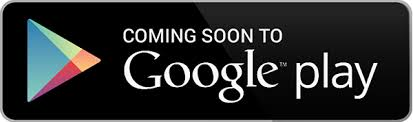
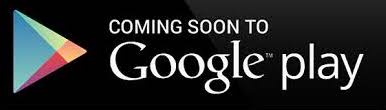
Footer edit

Changed region(s): [[0.0, 0.0, 1.0, 1.0]]

diff --git a/index.html b/index.html
@@ -10,6 +10,7 @@
     <link href="assets/css/bootstrap.css" rel="stylesheet" />
     <!-- FONT AWESOME CSS -->
 <link href="assets/css/font-awesome.min.css" rel="stylesheet" />
+<link rel="stylesheet" href="https://cdnjs.cloudflare.com/ajax/libs/font-awesome/4.7.0/css/font-awesome.min.css">
      <!-- FLEXSLIDER CSS -->
 <link href="assets/css/flexslider.css" rel="stylesheet" />
     <!-- CUSTOM STYLE CSS -->
@@ -48,55 +49,41 @@
            <div class="overlay">
  <div class="container">
            <div class="row text-center " >
+           	<br>
+           	<div class="set-flexi">
+           	<h3>Delivering Quality Education</h3>
+                           <h1>THE UNIQUE METHOD</h1></div>
            
-               <div class="col-lg-12  col-md-12 col-sm-12">
+               <!-- <div class="col-lg-12  col-md-12 col-sm-12">
 				<img src="img/hero.svg" alt="animat">
 				<img src="img/phone.gif" alt="phone" class="hero_image">
 				<div class="shadow"></div>
 				<div class="dots"><img src="img/phone.png" alt="dots">
-               
+ -->
+<!--                
                 <div class="flexslider set-flexi" id="main-section" >
                     <ul class="slides move-me">
-                        <!-- Slider 01 -->
+
                         <li>
                               <h3>Delivering Quality Education</h3>
                            <h1>THE UNIQUE METHOD</h1>
-                            <a  href="#features-sec" class="btn btn-info btn-lg" >
-                                GET AWESOME 
-                            </a>
-                             <a  href="#features-sec" class="btn btn-success btn-lg" >
-                                FEATURE LIST
-                            </a>
+                            
                         </li>
-                        <!-- End Slider 01 -->
-                        
-                        <!-- Slider 02 -->
+
                         <li>
                             <h3>Delivering Quality Education</h3>
                            <h1>UNMATCHED APPROACH</h1>
-                             <a  href="#features-sec" class="btn btn-primary btn-lg" >
-                               GET AWESOME 
-                            </a>
-                             <a  href="#features-sec" class="btn btn-danger btn-lg" >
-                                FEATURE LIST
-                            </a>
+                             
                         </li>
-                        <!-- End Slider 02 -->
-                        
-                        <!-- Slider 03 -->
+
                         <li>
                             <h3>Delivering Quality Education</h3>
                            <h1>AWESOME FACULTY PANEL</h1>
-                             <a  href="#features-sec" class="btn btn-default btn-lg" >
-                                GET AWESOME 
-                            </a>
-                             <a  href="#features-sec" class="btn btn-info btn-lg" >
-                                FEATURE LIST
-                            </a>
+                            
                         </li>
-                        <!-- End Slider 03 -->
+
                     </ul>
-                </div>
+                </div> -->
 
 				
 			</div>
@@ -117,7 +104,7 @@
            
                <div class="col-lg-12  col-md-12 col-sm-12">
                
-        <h2 data-scroll-reveal="enter from the bottom after 0.1s" ><i class="fa fa-circle-o-notch"></i> WELCOME TO THE EDU-CENTER <i class="fa fa-circle-o-notch"></i> </h2>
+        <!-- <h2 data-scroll-reveal="enter from the bottom after 0.1s" ><i class="fa fa-circle-o-notch"></i> WELCOME TO THE EDU-CENTER <i class="fa fa-circle-o-notch"></i> </h2> -->
                    </div>
                </div>
              </div>
@@ -274,56 +261,58 @@
     <footer class="site-footer">
       <div class="container">
         <div class="row">
-          <div class="col-sm-12 col-md-6">
+          <div class="col-sm-12 col-md-5">
             <h6>About</h6>
             <p class="text-justify">Scanfcode.com <i>CODE WANTS TO BE SIMPLE </i> is an initiative  to help the upcoming programmers with the code. Scanfcode focuses on providing the most efficient code or snippets as the code wants to be simple. We will help programmers build up concepts in different programming languages that include C, C++, Java, HTML, CSS, Bootstrap, JavaScript, PHP, Android, SQL and Algorithm.</p>
+            <!-- <a href="index.html#"><img src="assets/img/apple.svg" alt="app store" style="padding-top: 2px; padding-right: 10px"></a>
+			<a href="market://details?id=com.app.drona"><img src="assets/img/google.jpeg" alt="google play" style="width: 35%;height: 35%;"></a> -->
           </div>
 
-          <div class="col-xs-6 col-md-3">
-            <h6>Categories</h6>
+          <div class="col-xs-6 col-md-7">
+            <h6>Contact</h6>
             <ul class="footer-links">
-              <li><a href="http://scanfcode.com/category/c-language/">C</a></li>
+              <li style="font-family: 'Open Sans', sans-serif;"><i class="fa fa-phone"> 99304 81594</i></li>
               <li><a href="http://scanfcode.com/category/front-end-development/">UI Design</a></li>
               <li><a href="http://scanfcode.com/category/back-end-development/">PHP</a></li>
               <li><a href="http://scanfcode.com/category/java-programming-language/">Java</a></li>
               <li><a href="http://scanfcode.com/category/android/">Android</a></li>
               <li><a href="http://scanfcode.com/category/templates/">Templates</a></li>
             </ul>
+<!--           </div>
+          <div class="col-xs-6 col-md-5">
+          	<br><br><br><br><br><br> -->
+          	<a href="index.html#"><img src="assets/img/apple.svg" alt="app store" style="padding-top: 2px; padding-right: 10px"></a>
+			<a href="market://details?id=com.app.drona"><img src="assets/img/google.jpeg" alt="google play" style="width: 50%;height: 50%;"></a>
           </div>
 
-          <div class="col-xs-6 col-md-3">
-            <h6>Quick Links</h6>
+          <!-- <div class="col-xs-5 col-md-4">
+            <h6></h6><br><br>
             <ul class="footer-links">
               <li><a href="http://scanfcode.com/about/">About Us</a></li>
               <li><a href="http://scanfcode.com/contact/">Contact Us</a></li>
               <li><a href="http://scanfcode.com/contribute-at-scanfcode/">Contribute</a></li>
               <li><a href="http://scanfcode.com/privacy-policy/">Privacy Policy</a></li>
               <li><a href="http://scanfcode.com/sitemap/">Sitemap</a></li>
+			
             </ul>
-          </div>
+          </div> -->
         </div>
         <hr>
       </div>
       <div class="container">
-        <div class="row">
-          <div class="col-md-8 col-sm-6 col-xs-12">
-            <p class="copyright-text">Copyright &copy; 2017 All Rights Reserved by 
-         <a href="#">Scanfcode</a>.
+        <div class="row"><br>
+          <div class="col-md-8 col-sm-6 col-xs-12" align="right">
+            <p class="copyright-text">Copyright &copy; 2020 All Rights Reserved by 
+         <a href="#">Drona Tech</a>.
+         <br><br><br>
             </p>
           </div>
 
-          <div class="col-md-4 col-sm-6 col-xs-12">
-            <ul class="social-icons">
-              <li><a class="facebook" href="#"><i class="fa fa-facebook"></i></a></li>
-              <li><a class="twitter" href="#"><i class="fa fa-twitter"></i></a></li>
-              <li><a class="dribbble" href="#"><i class="fa fa-dribbble"></i></a></li>
-              <li><a class="linkedin" href="#"><i class="fa fa-linkedin"></i></a></li>   
-            </ul>
-          </div>
+          
         </div>
       </div>
 </footer>
-               </body>
+   </body>
     <!--  Jquery Core Script -->
     <script src="assets/js/jquery-1.10.2.js"></script>
     <!--  Core Bootstrap Script -->

diff --git a/assets/css/style.css b/assets/css/style.css
@@ -115,10 +115,11 @@ body {
 /*=====================================
   FOOTER STYLES 
     ===================================*/
+
 .site-footer
 {
   background-color:#26272b;
-  padding:45px 0 20px;
+  padding:45px 0 0px;
   font-size:15px;
   line-height:24px;
   color:#737373;
@@ -437,10 +438,10 @@ h1::after {
 /*=====================================
   Footer STYLES 
   ===================================*/
-#footer {
+/*#footer {
     padding:5px 20px;
     background-color:#2d3d5a;
     text-align:right;
     color:#fff;
     font-size:15px;
-}
+}*/
